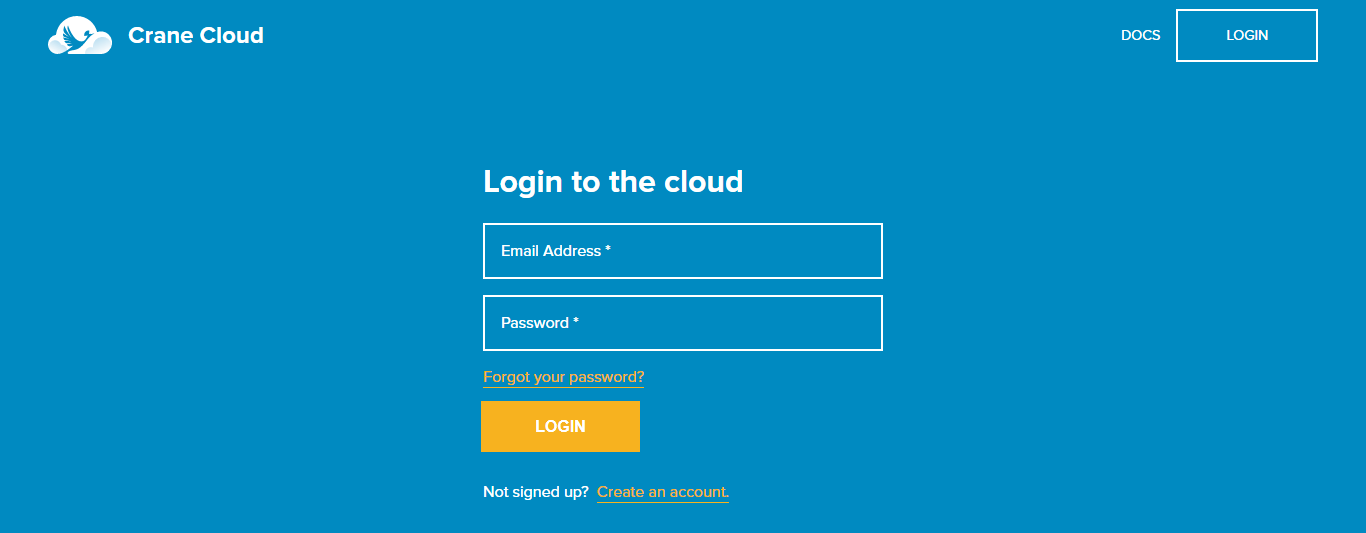
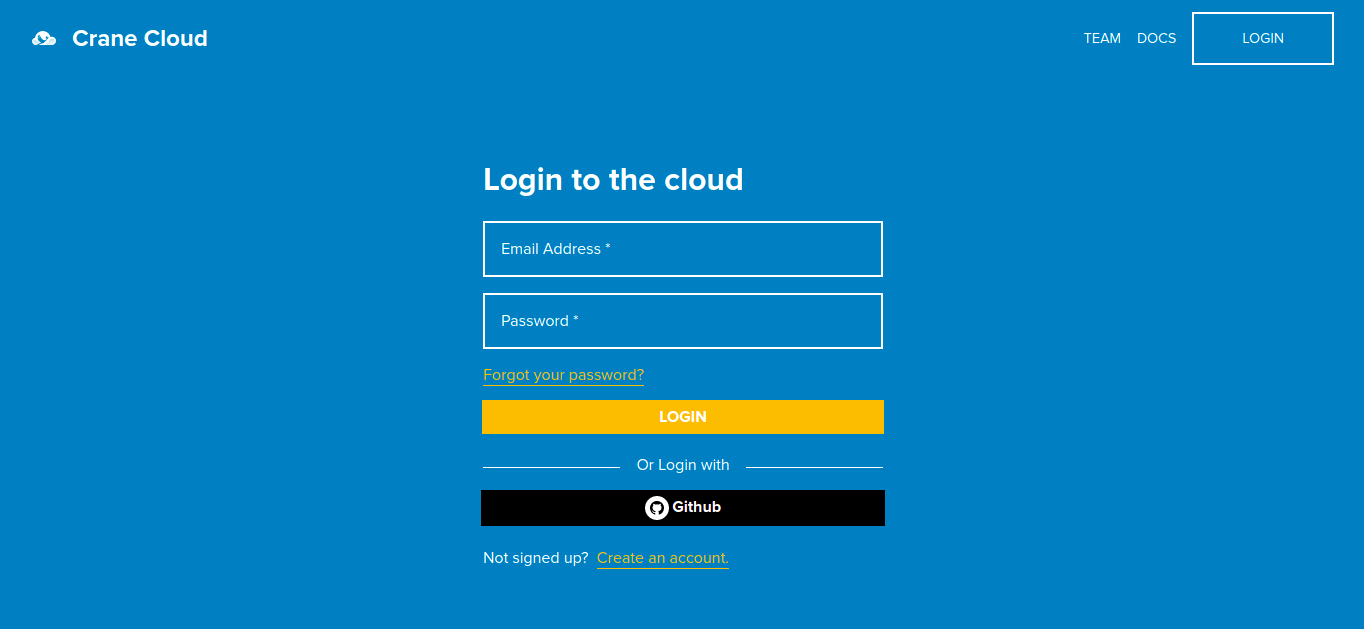
Update auth docs

diff --git a/cranecloud/docs/authentication/login.md b/cranecloud/docs/authentication/login.md
@@ -11,3 +11,6 @@ IF any field is left blank, the page throws an error saying “Please enter your
 IF you entered wrong credentials, the page shall throw an error saying **Incorrect email or password** In that case, double-check your credentials and try again.  In the event that you don’t recall your password, click the Forgot password link just above the login button reset your password.
 
 IF all the entered credentials are right, then you shall be redirected to your account dashboard.
+
+## Github
+You can also log into your Crane Cloud account with Github. This requires that you have a Github account and have already registered and verified your Crane Cloud account.

diff --git a/cranecloud/docs/authentication/registration.md b/cranecloud/docs/authentication/registration.md
@@ -3,7 +3,7 @@
 ![](../img/get_started.png)
 
 Alternatively you can click the `Create an account` link on the *Login page.*
-![](../img/login.png)
+![](../img/login_page.png)
 
 2\. The page below will appear with a form, go ahead to fill it
     ![](../img/clean_register.png)
